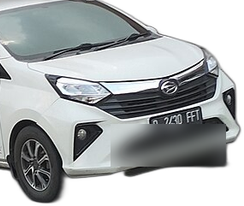
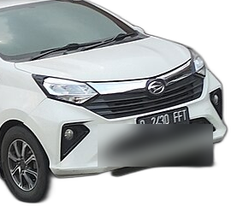
Fix reversed/inconsistent half-car crop, refresh Alphard photo
The card image was being cropped twice (once when the source PNG was
pre-cropped to its right half, again by the CSS object-fit rule),
which made the visible slice of car inconsistent and sometimes showed
the wrong portion. Simplify to object-fit: contain against the
already-cropped source so the intended half shows cleanly with no
further clipping. Also swap in a cleaner studio-shot Alphard photo
(background removed) in place of the earlier street photo.

Changed region(s): [[0.0, 0.0, 0.9697, 0.9903], [0.9091, 0.5825, 0.9697, 0.8155], [0.6667, 0.7864, 0.697, 0.8155]]

diff --git a/src/css/components/Explore/CardExplore.css b/src/css/components/Explore/CardExplore.css
@@ -83,17 +83,13 @@
     top: 0;
     bottom: 0;
     width: 48%;
-    display: flex;
-    align-items: flex-end;
-    justify-content: flex-end;
     overflow: hidden;
 }
 .image-cardExplore img{
-    height: 92%;
-    width: auto;
-    max-width: none;
+    width: 100%;
+    height: 100%;
     object-fit: contain;
-    object-position: right bottom;
+    object-position: right center;
 }
 
 @media screen and (max-width:640px){
